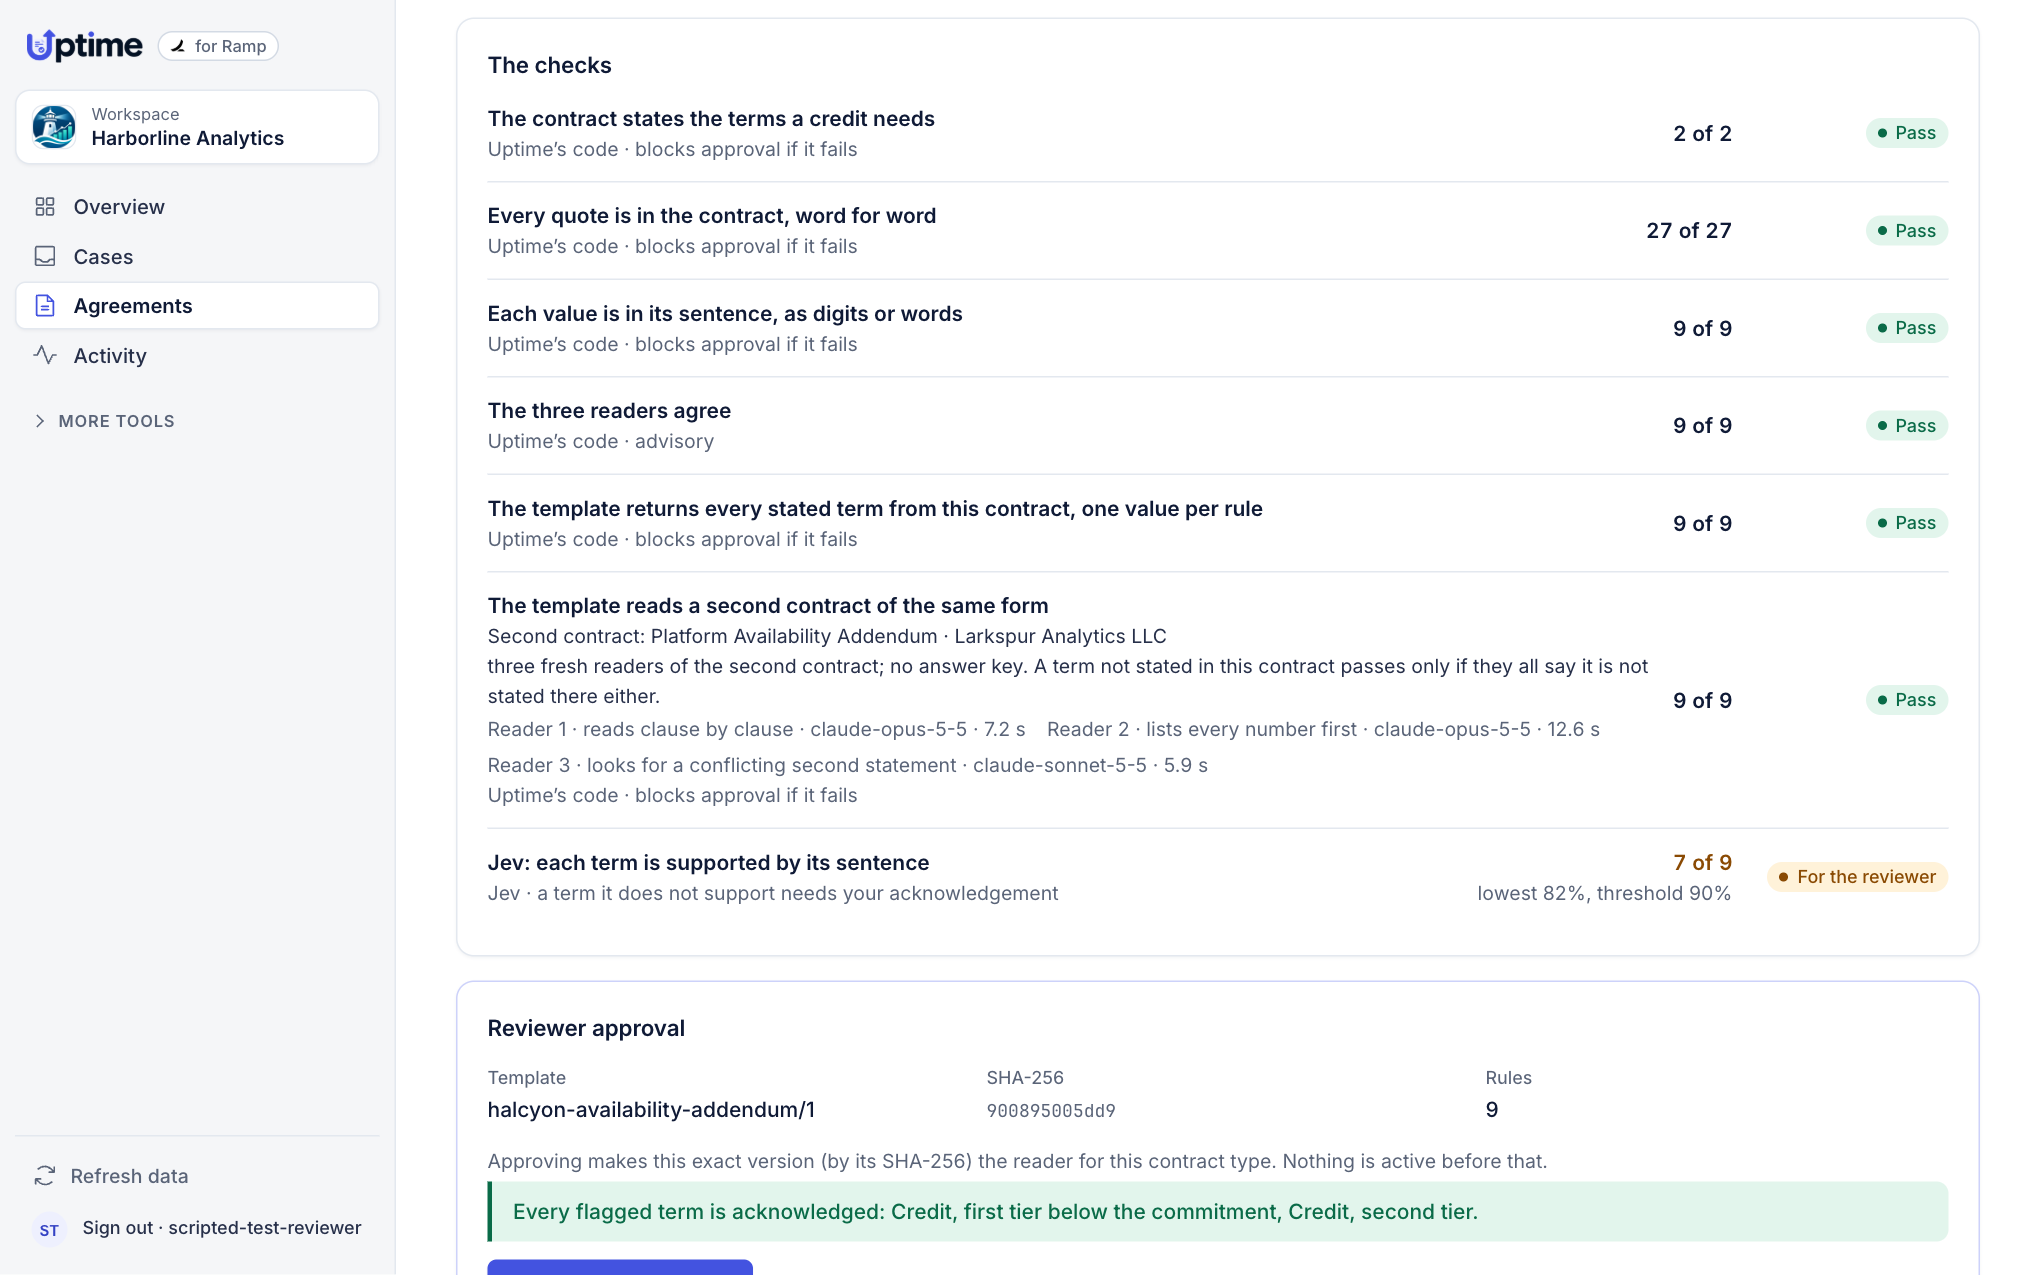
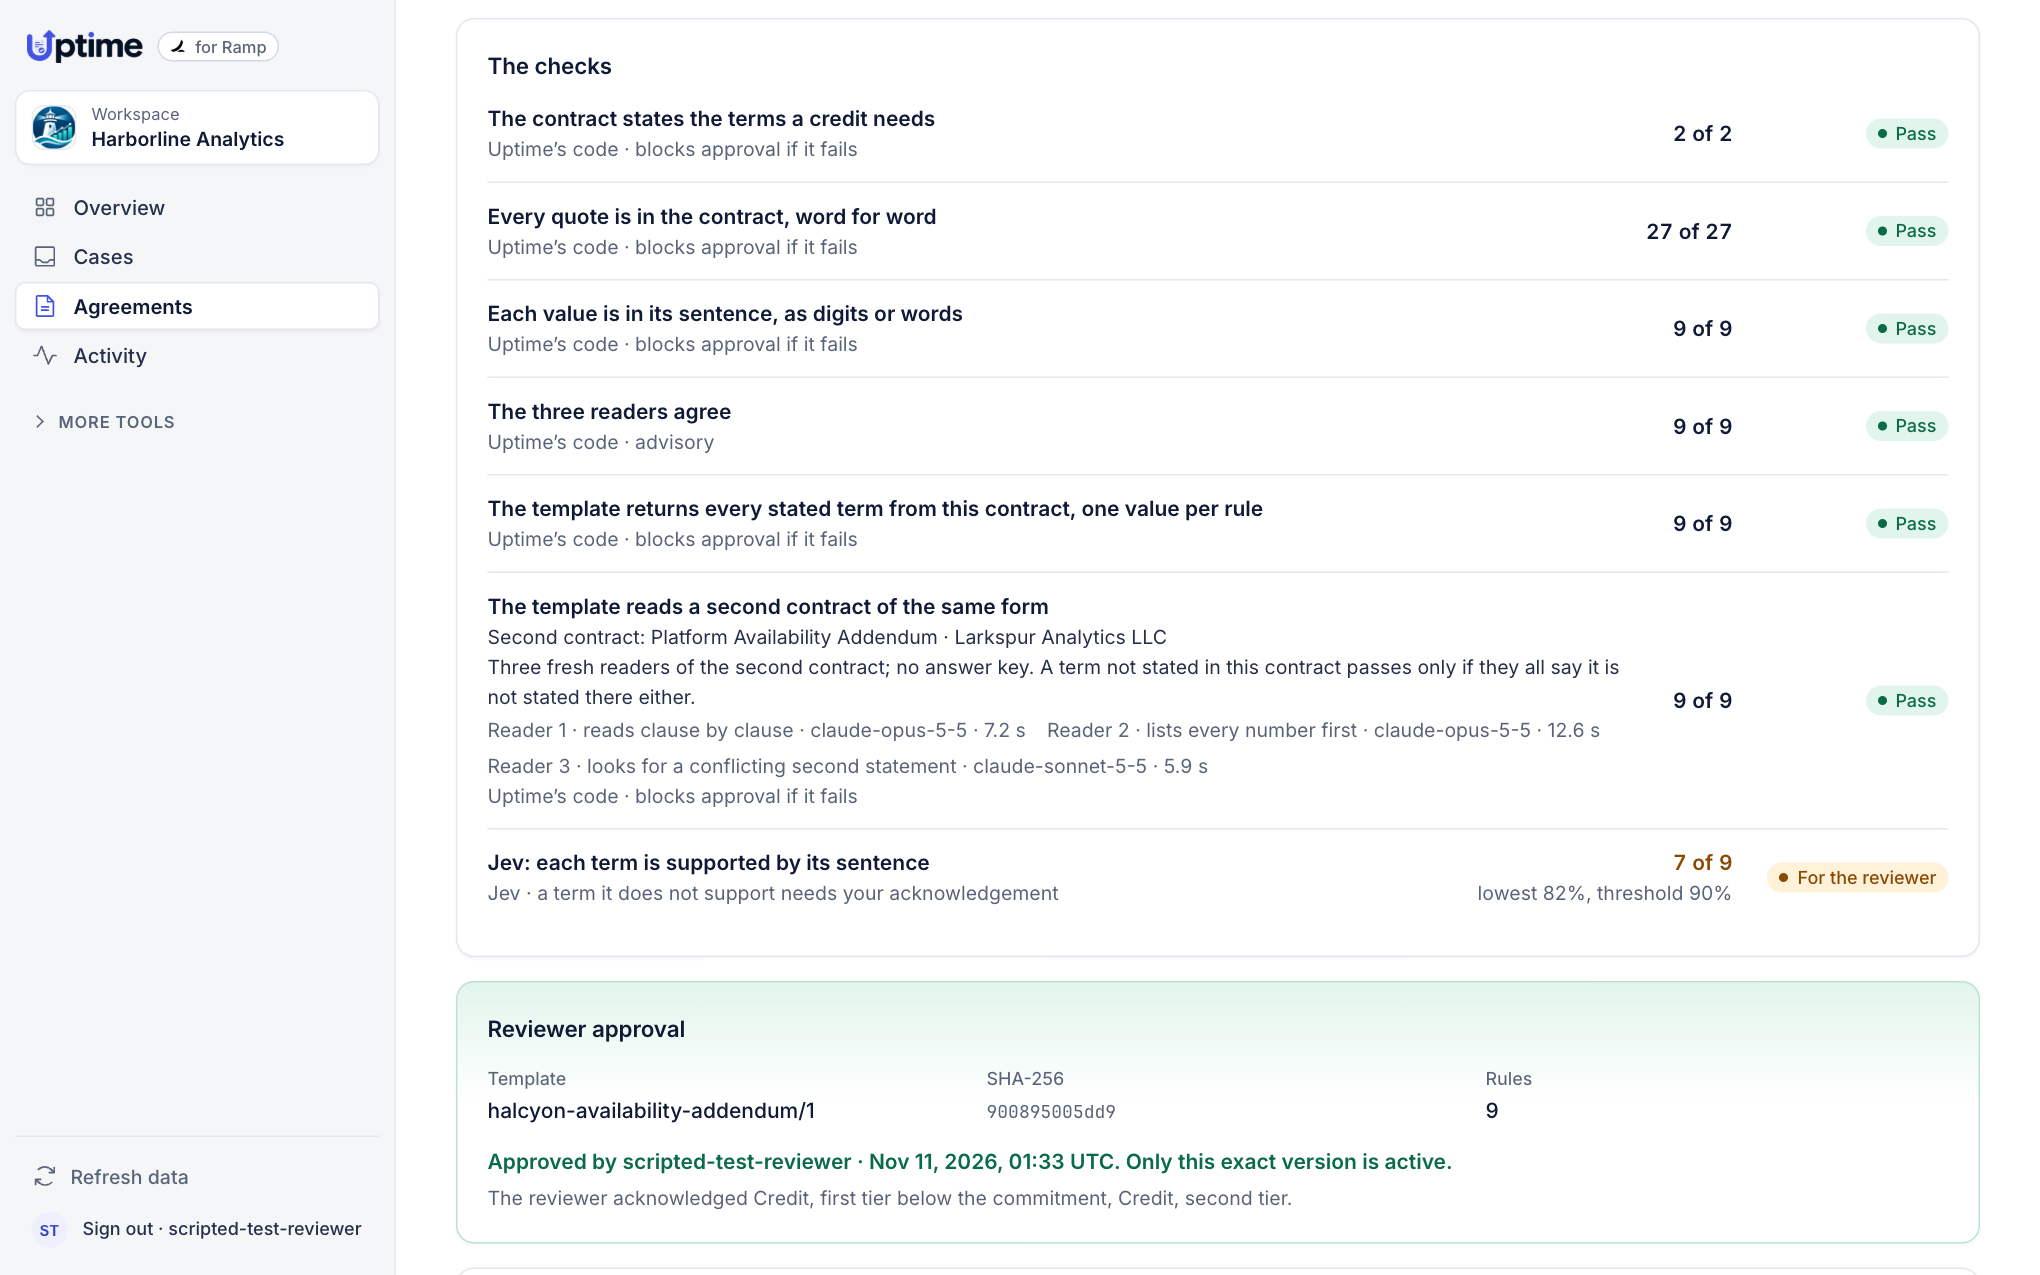
web: an acknowledged term keeps one colour, also after approval; retake three README images from the resumed real run

diff --git a/web/template_builder_ui.js b/web/template_builder_ui.js
@@ -491,12 +491,15 @@
       // Jev has been asked once its check is on the build; a term without an answer then says so and shows no number.
       const jevAsked = !!jevCheck(build);
       const approved = build.state === 'APPROVED' || object(build.template)?.state === 'APPROVED';
+      // After approval the review step records which flagged terms the reviewer acknowledged.
+      const reviewAcked = list(object(list(build.steps).find(x => object(x) && x.id === 'review')?.detail)?.acknowledged);
       const review = terms.filter(t => t.status === 'REVIEW').length;
       const needs = terms.filter(t => t.needs_acknowledgement === true);
       const left = needs.filter(t => !view.acks.has(t.field)).length;
       const showSecond = terms.some(t => t.second_readers !== undefined);
       const showInSentence = terms.some(t => typeof t.value_in_sentence === 'boolean');
       const headPill = needs.length && !approved ? (left ? pill(left + (left === 1 ? ' term needs' : ' terms need') + ' your acknowledgement', 'warn') : pill('All ' + needs.length + ' acknowledged', 'ok'))
+        : approved && reviewAcked.length ? pill(reviewAcked.length + (reviewAcked.length === 1 ? ' term' : ' terms') + ' acknowledged at approval', 'ok')
         : review ? pill(review + (review === 1 ? ' term' : ' terms') + ' for the reviewer', 'warn') : null;
       const node = add(el('section', 'panel tb-terms'), add(el('div', 'panel-head'), el('h2', '', 'The terms'), el('span', 'count', String(terms.length)), headPill));
       const table = el('table', 'tb-table'), body = el('tbody');
@@ -506,10 +509,10 @@
       terms.forEach(term => {
         const open = view.open.has(term.field);
         const needsAck = term.needs_acknowledgement === true;
-        const acked = view.acks.has(term.field);
+        const acked = view.acks.has(term.field) || (approved && reviewAcked.includes(term.field));
         // A term every reader agrees the contract does not state: no value, no sentence, no Jev figure.
         const unstated = term.status === 'NOT_STATED' || term.stated === false;
-        const row = el('tr', 'tb-term' + (unstated ? ' tb-term-unstated' : '') + (term.status === 'REVIEW' || (needsAck && !acked) ? ' tb-term-review' : '') + (needsAck && acked ? ' tb-term-acked' : '') + (open ? ' tb-open' : ''));
+        const row = el('tr', 'tb-term' + (unstated ? ' tb-term-unstated' : '') + (!acked && (term.status === 'REVIEW' || needsAck) ? ' tb-term-review' : '') + (needsAck && acked ? ' tb-term-acked' : '') + (open ? ' tb-open' : ''));
         const agreement = object(term.agreement);
         const jev = object(term.jev);
         const second = object(term.second_readers);
@@ -561,6 +564,8 @@
             const tickBox = checkbox(unstated ? 'I have checked that the contract does not state this' : 'I have read this sentence and the value is right', acked, on => { if (on) view.acks.add(term.field); else view.acks.delete(term.field); draw(view, view.build, true); }, 'tb-ack');
             tickBox.box.setAttribute('data-field', term.field);
             cell.append(add(el('div', 'tb-ack-box' + (acked ? ' tb-ack-done' : '')), el('p', 'tb-ack-why', why), tickBox.node));
+          } else if (needsAck && acked) {
+            cell.append(add(el('div', 'tb-ack-box tb-ack-done'), el('p', 'tb-ack-recorded', 'Acknowledged by the reviewer when this version was approved.')));
           }
           body.append(add(el('tr', 'tb-detail-row' + (needsAck && !acked && !approved ? ' tb-detail-ack' : '')), cell));
         }
@@ -589,7 +594,7 @@
         add(row, add(el('div', 'tb-check-text'), el('strong', '', given(check.label) ? check.label : check.id),
           isSecond && notRun ? el('p', 'tb-check-doc tb-not-checked', 'No second contract was given, so the template was not checked on a second contract.')
             : named && given(named.title) ? el('p', 'tb-check-doc', 'Second contract: ' + named.title) : null,
-          isSecond && !notRun ? el('p', 'tb-check-doc', given(check.basis) ? check.basis : 'No answer key: three fresh Claude readers read the second contract, and the template must return what they agreed on.') : null,
+          isSecond && !notRun ? el('p', 'tb-check-doc', given(check.basis) ? check.basis.charAt(0).toUpperCase() + check.basis.slice(1) : 'No answer key: three fresh Claude readers read the second contract, and the template must return what they agreed on.') : null,
           isSecond && !notRun && list(check.readers).filter(object).length ? add(el('p', 'help tb-second-readers'), list(check.readers).filter(object).map(r => el('span', 'tb-second-reader' + (r.ok === false ? ' tb-mismatch' : ''), 'Reader ' + r.reader + (ROLES[r.role] ? ' · ' + ROLES[r.role].toLowerCase() : '') + (given(r.model) ? ' · ' + r.model : '') + (given(r.seconds) ? ' · ' + r.seconds + ' s' : '') + (r.ok === false ? ' · ' + (given(r.summary) ? r.summary : 'failed') : '')))) : null,
           el('p', 'help', [CHECK_BY[check.by] || actorName(check.by), how].join(' · '))),
           add(el('div', 'tb-check-figures'), el('span', 'tb-check-count', figures), extra ? el('span', 'help', extra) : null),
@@ -657,7 +662,8 @@
     function nextPanel(view, build) {
       const docs = list(object(view.sample)?.next_documents).filter(object);
       const served = list(build.readings).filter(object);
-      const readingFor = docId => view.readings.get(docId) || served.find(r => object(r.document)?.id === docId) || null;
+      // The latest reading of a document is the one shown; the server lists readings in the order they were made.
+      const readingFor = docId => view.readings.get(docId) || served.filter(r => object(r.document)?.id === docId).pop() || null;
       const node = add(el('section', 'panel tb-next'), add(el('div', 'panel-head'), el('h2', '', 'The next contract of this type')),
         el('p', 'help', 'Read by the approved template alone: Uptime’s fixed interpreter runs its rules with no Claude call, and every read is guarded. A refused read feeds nothing downstream.'));
       if (!docs.length) node.append(el('p', 'help', 'No further contract of this type is on file. Paste one below.'));

diff --git a/web/style.css b/web/style.css
@@ -1109,6 +1109,8 @@ dialog::backdrop { background: rgba(15, 26, 54, .45); }
 .tb-open td { border-bottom-color: transparent; }
 .tb-term-detail { padding-top: 0; background: var(--sunken); }
 .tb-term-review + .tb-detail-row .tb-term-detail { background: var(--warn-soft); }
+.tb-term-acked + .tb-detail-row .tb-term-detail { background: var(--ok-soft); }
+.tb-ack-recorded { font-size: 13px; font-weight: 600; color: var(--ok); }
 .tb-detail-label { margin-top: 10px; font-size: 12px; font-weight: 600; color: var(--muted); }
 .tb-term-detail blockquote { background: var(--surface); }
 .tb-detail { margin-top: 8px; }

diff --git a/DEMO-CHANGES.md b/DEMO-CHANGES.md
@@ -289,3 +289,11 @@ Built against the coordinator's shapes with mocks (the engine change lands separ
   `test_second_contract_check_passes_against_what_its_readers_agreed` (`second_readers` gains `stated`), and
   `test_a_pasted_contract_without_a_second_contract_can_be_approved_unchecked` (the check gains `not_stated: 0`).
   Seven tests added. Shapes: docs/demo/TEMPLATE-BUILDER.md, "A term every reader agrees the contract does not state".
+
+### Acknowledged terms after approval; three README images retaken (page agent, November 10, night)
+
+- An acknowledged term's open detail takes the row's green (`.tb-term-acked + .tb-detail-row`). An acknowledged row is no longer also drawn as waiting for review. After approval, the terms the review step records in `acknowledged` stay marked, with the line "Acknowledged by the reviewer when this version was approved.", and the header pill reads "N terms acknowledged at approval".
+- The second-contract check capitalises the first letter of the server's `basis` sentence, because builds saved before the server fix keep the lowercase sentence.
+- When a document has been read more than once, the latest reading is shown.
+- `docs/assets/demo/template-terms.png`, `template-checks.png` and `template-credit.png` are retaken from the resumed workspace of the last real run (`--resume --template-builder`, no Claude call). The credit image comes from a fresh `read` of the next contract (template only, 45.4 ms, 0 model calls), so the agreement's inputs no longer carry the engine's raw line.
+- Tests: one existing test extended in `web/template_builder.test.cjs` (`terms show the second contract’s readers and the value in its sentence; approval waits for every acknowledgement and sends them`) with assertions for the state after approval. Its existing assertions are unchanged. Two further assertions were added to existing tests: the capitalised basis, and the latest reading of a document.
